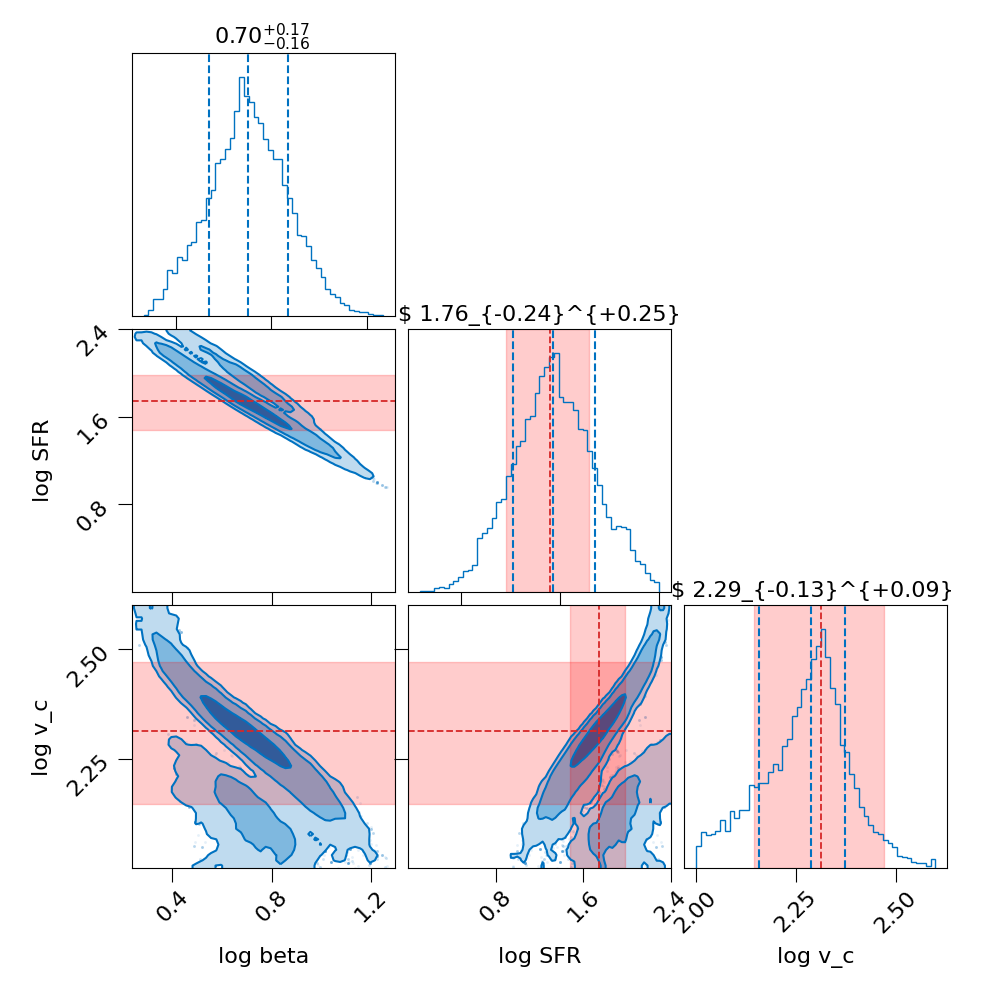
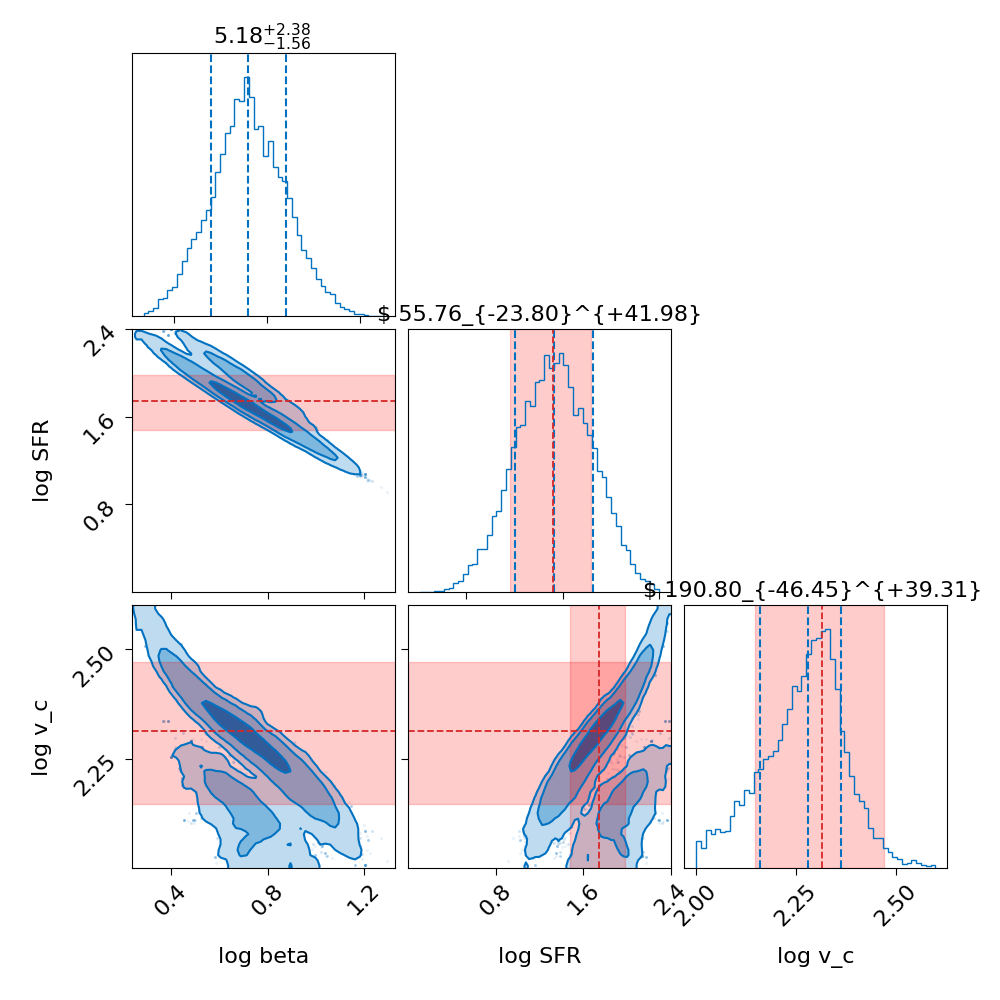
new trial with ptemceee

diff --git a/script/mcmc_new_ptemcee.py b/script/mcmc_new_ptemcee.py
@@ -11,13 +11,15 @@ import scipy.integrate as si
 import scipy
 import logging
 
+import ptemcee
+
+
 from multiprocessing import Pool
 
 # from numba import jit
 
 import time
 
-import emcee
 
 import natconst as nc
 
@@ -38,7 +40,7 @@ gc.frtinitcf(0, os.path.join(mydir.script_dir, "input_data", "cf_table.I2.dat"))
 
 
 parallel = True
-optimization = True
+optimization = False
 display_single_step = False
 model = "old"
 
@@ -135,7 +137,7 @@ theta : log_beta, SFR, v_c
 """
 
 
-def get_emission_fast(theta, data, other_params, h, grid, f_beam, print_time_ivp=False, print_time_total=False, return_quantities=None, alfa=1.):
+def get_emission_fast(theta, other_params, h, grid, f_beam, print_time_ivp=False, print_time_total=False, return_quantities=None, alfa=1.):
     if print_time_total:
         t_total = time.perf_counter()
 
@@ -372,7 +374,7 @@ def get_emission_fast(theta, data, other_params, h, grid, f_beam, print_time_ivp
     else:
         raise ValueError("no correct return quantities")
 
-def log_likelihood(theta, data, other_params, h, grid, f_beam):
+def log_likelihood(theta):
     intensity_convolved = get_emission_fast(theta, data, other_params, h, grid, f_beam)
 
     emission_predicted = np.interp(data.x / 1e3 / nc.pc, h, intensity_convolved)
@@ -392,7 +394,7 @@ def log_likelihood(theta, data, other_params, h, grid, f_beam):
     return - chi2 / 2.
 
 
-def log_prior_uniform(theta, data):
+def log_prior_uniform(theta):
     """
     defines the priors for the set of parameters theta
 
@@ -443,7 +445,7 @@ def log_prior_gaussian(theta, data):
         return -np.inf
 
 
-def log_prior_SFR_gaussian(theta, data):
+def log_prior_SFR_gaussian(theta):
     """
     defines the priors for the set of parameters theta
 
@@ -470,7 +472,7 @@ def log_prior_SFR_gaussian(theta, data):
         return -np.inf
 
 
-def log_probability(theta, data, other_params, h, grid, f_beam):
+def log_probability(theta):
     """
     defines the probability as a combination of priors and likelihood
 
@@ -567,31 +569,32 @@ if __name__ == "__main__":
         pos[pos < 0.] = 1e-3
 
 
-    backend = emcee.backends.HDFBackend(path_machine)
-    backend.reset(nwalkers, ndim)
-
+    ntemps = 20
 
     if parallel:
 
         with Pool() as pool:
 
-            sampler = emcee.EnsembleSampler(nwalkers=nwalkers, ndim=ndim, log_prob_fn=log_probability, \
-                                            args=(data, other_params, h, grid, f_beam), backend=backend, pool=pool)
-            sampler.run_mcmc(pos, nsteps, progress=True);
+            sampler = ptemcee.Sampler(ntemps=ntemps, nwalkers=nwalkers, ndim=ndim, lnlike=log_likelihood,
+                                      lnprior = log_prior_gaussian, pool=pool)
+            sampler.sample(pos, iterations=nsteps)
 
     else:
 
-        sampler = emcee.EnsembleSampler(nwalkers=nwalkers, ndim=ndim, log_prob_fn=log_probability, \
-                                        args=(data, other_params, h, grid, f_beam), backend=backend)
-        sampler.run_mcmc(pos, nsteps, progress=True)
+        sampler = ptemcee.Sampler(ntemps=ntemps, nwalkers=nwalkers, ndim=ndim, lnlike=log_likelihood,
+                                      lnprior = log_prior_gaussian)
+        sampler.sample(pos, iterations=nsteps)
 
-    samples = sampler.get_chain()
+
+    samples = sampler.chain()
+    print(samples)
 
     print("Mean acceptance fraction: {0:.3f}".format(np.mean(sampler.acceptance_fraction)))
 
     print(
         "Mean autocorrelation time: {0:.3f} steps".format(
             np.mean(sampler.get_autocorr_time())))
+
 
 
 

diff --git a/script/plotter_mcmc_new.py b/script/plotter_mcmc_new.py
@@ -23,8 +23,6 @@ from collections import namedtuple
 
 from load_data_updated import obs_data_list
 
-from mcmc_new import get_emission_fast, get_other_params
-from mcmc_new import h, grid
 
 
 for data in obs_data_list:
@@ -51,9 +49,9 @@ matplotlib.rcParams.update({
 
 plot0 = False  # single emission chain
 plot1 = False  # emission chains
-plot2 = False  # corners
+plot2 = True  # corners
 plot3 = False  # violins
-plot4 = True  # final trends
+plot4 = False  # final trends
 
 folder_data = "data_emcee"
 folder_plot = "plot_emcee"
@@ -66,7 +64,7 @@ discard = 1
 sample_step = int(800 * (nsteps / 1e3))
 walker_step = int(12 * (nwalkers / 48))
 
-data = obs_data_list[6]
+data = obs_data_list[1]
 
 string = "results for""\n""VC5110377875"
 
@@ -82,6 +80,9 @@ params = dict([("DM_model", "NFW"),
                ("R_in", 0.3)])
 
 if plot0:
+
+    from mcmc_new import get_emission_fast, get_other_params
+    from mcmc_new import h, grid
 
     from matplotlib.ticker import (MultipleLocator, FormatStrFormatter,
                                    AutoMinorLocator)
@@ -175,6 +176,8 @@ if plot1:
     # emission chains
     """
 
+    from mcmc_new import get_emission_fast, get_other_params
+    from mcmc_new import h, grid
 
     fig, axs = plt.subplots(4, 2, sharey=True, sharex=True, figsize=(1.3 * 8.27, 1.3 * 12.))
 
@@ -271,8 +274,9 @@ if plot2:
     filename = "{}_{:.0f}_updated_{}".format(data.params_obs["name_short"], nsteps, model)
     print(filename)
     path = os.path.join(mydir.data_dir, folder_data, "{}.h5".format(filename))
+    path_machine = os.path.join("/Users/eliapizzati/projects/outflows/data_mcmc", "{}.h5".format(filename))
 
-    reader = emcee.backends.HDFBackend(path)
+    reader = emcee.backends.HDFBackend(path_machine)
 
     samples = reader.get_chain(thin=thin, discard=discard)
     samples_flat = reader.get_chain(flat=True, thin=thin, discard=discard)

diff --git a/script/post_mcmc_new.py b/script/post_mcmc_new.py
@@ -25,13 +25,13 @@ loading_from_cluster = False
 plot_logprob = False
 model = "old"
 
-plot1 = False #chains
-plot2 = False #corners
+plot1 = True #chains
+plot2 = True #corners
 plot3 = False #emission
-plot4 = True #luminodity
+plot4 = False #luminodity
 
-thin = 1
-discard = 1
+thin = 3
+discard = 2000
 
 
 nwalkers = 48
@@ -69,8 +69,9 @@ if not os.path.exists(os.path.join(mydir.plot_dir, folder_plot)):
 
 
 path = os.path.join(mydir.data_dir, folder_data, "{}.h5".format(filename))
+path_machine = os.path.join("/Users/eliapizzati/projects/outflows/data_mcmc", "{}.h5".format(filename))
 
-reader = emcee.backends.HDFBackend(path)
+reader = emcee.backends.HDFBackend(path_machine)
 
 samples = reader.get_chain(thin=thin, discard=discard)
 samples_flat = reader.get_chain(flat=True, thin=thin, discard=discard)
